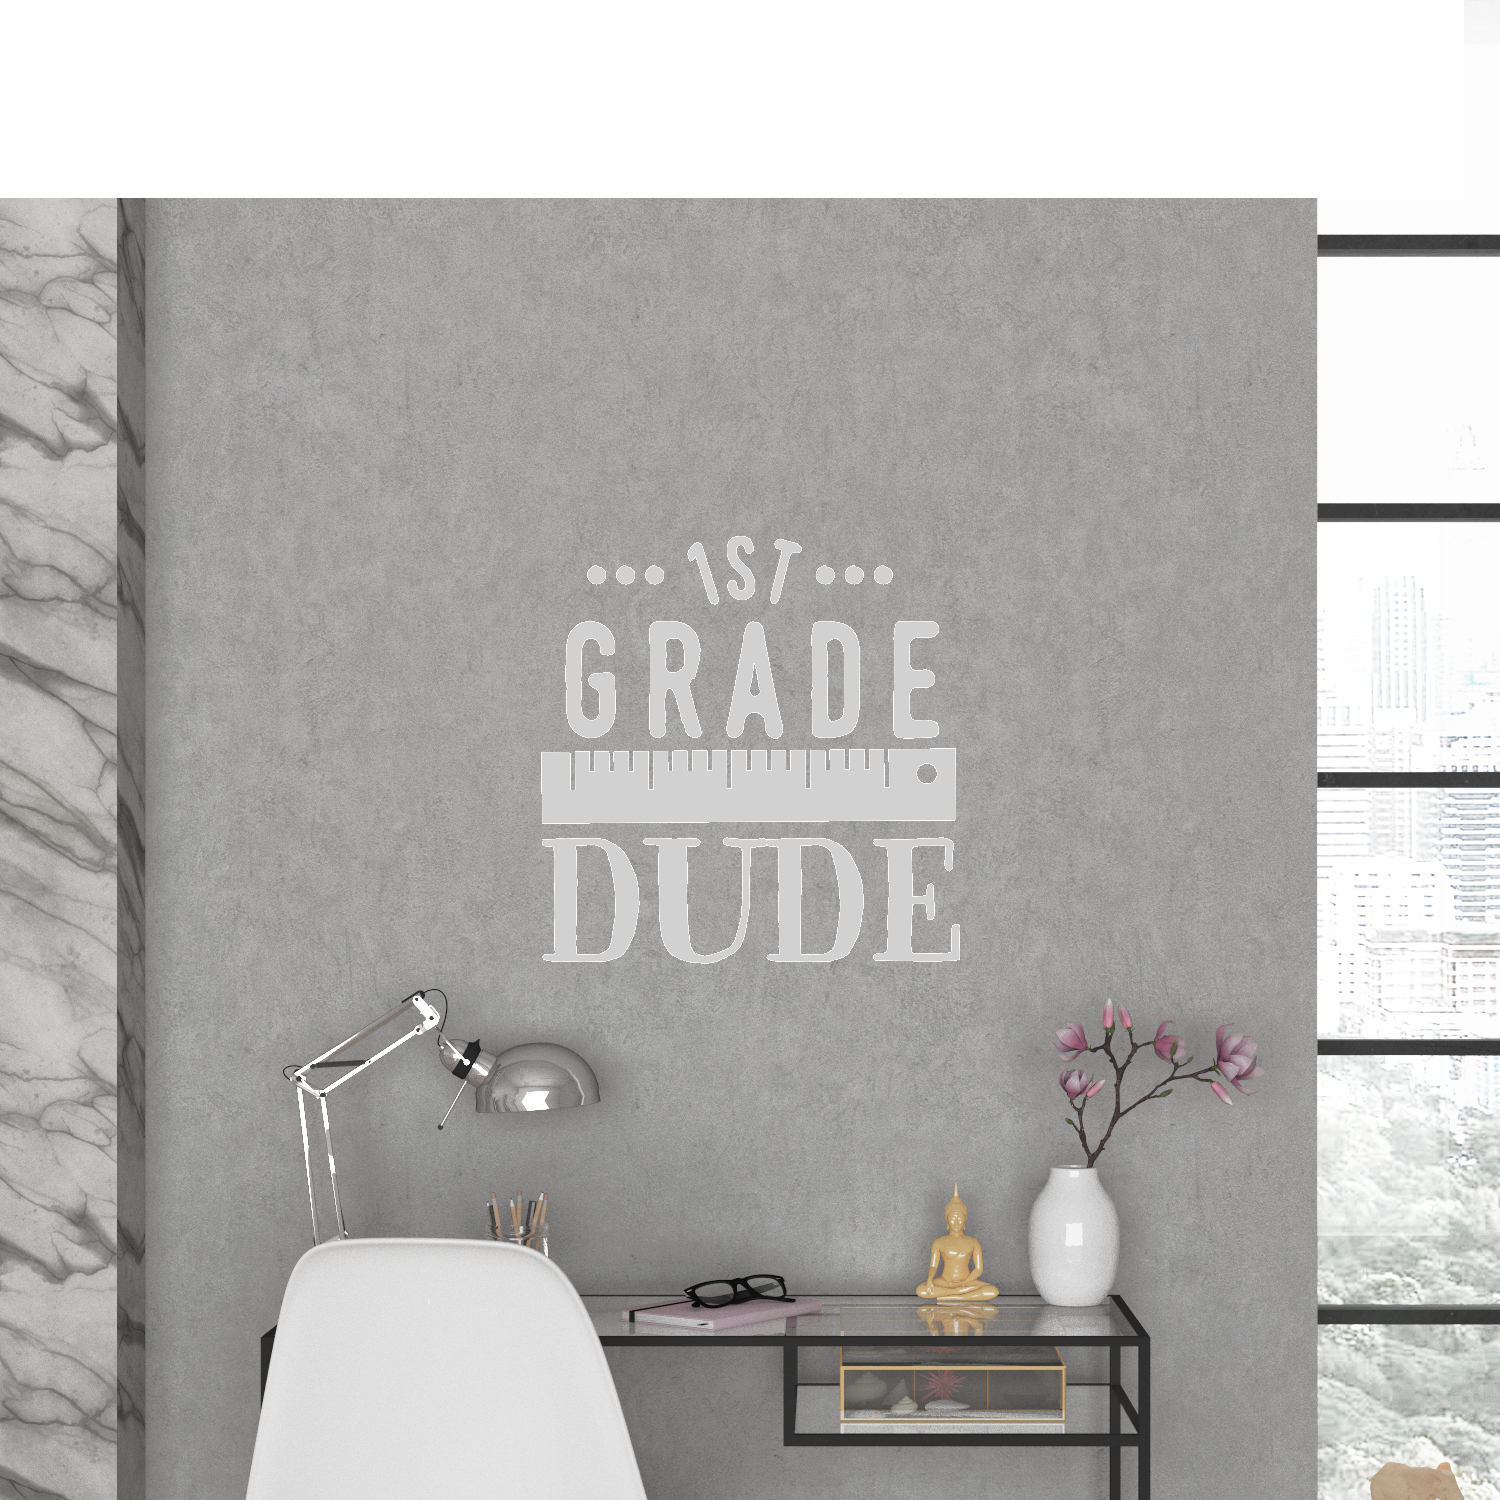
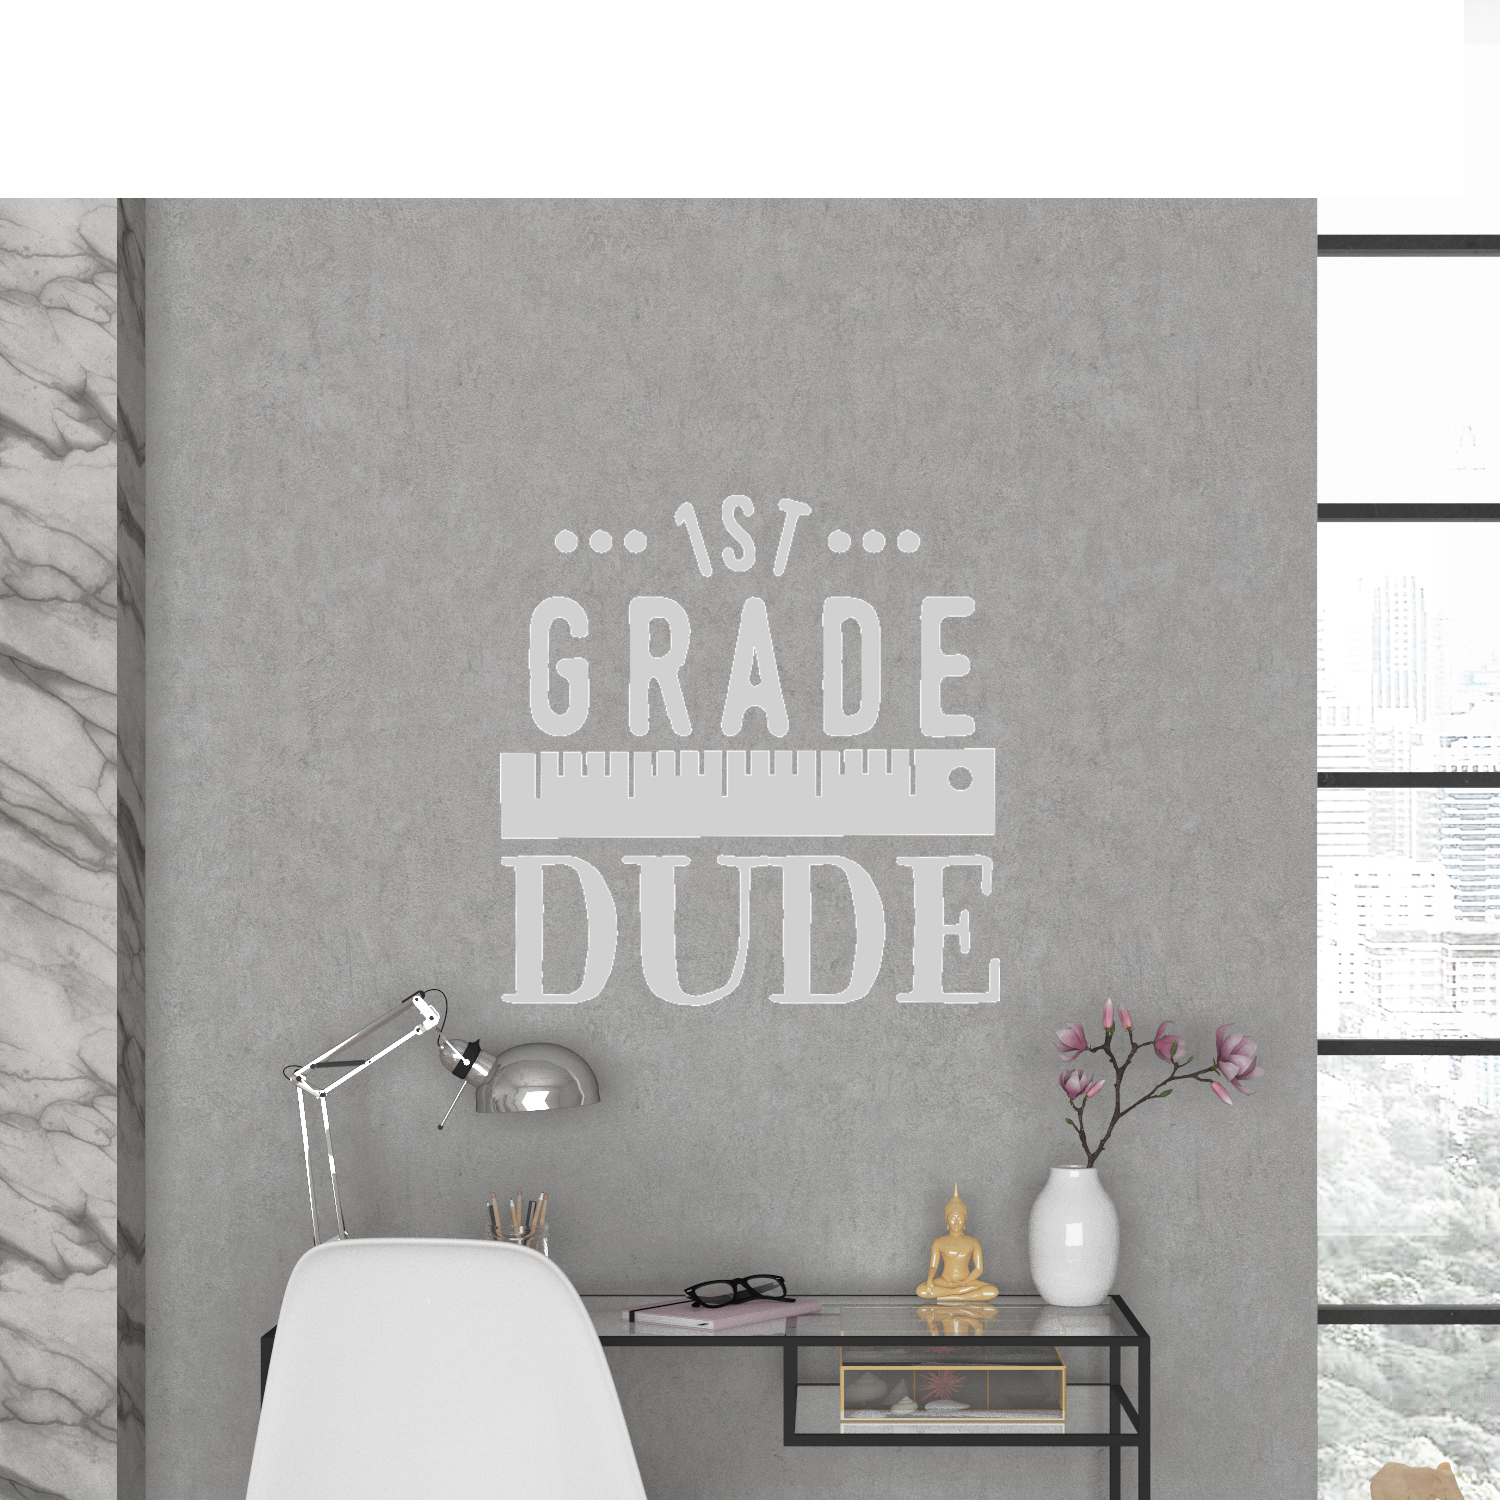
resize mark according to desk

Changed region(s): [[0.3067, 0.3373, 0.6747, 0.6747]]

diff --git a/util/img_util.php b/util/img_util.php
@@ -65,14 +65,29 @@ function merge_mark_desk($store) {
       if (!$file_info->isDot()) {
         $desk = $file_info->getFilename();
         $desk = get_desk_file_path($desk);
+
+        $cmd = "identify -ping -format '%w' $desk";
+        $desk_w = shell_exec($cmd);
+        debug($cmd);
         
         $mark = get_dst_file_path(get_png_name($img_item->dst));
 
+        $cmd = "identify -ping -format '%w' $mark";
+        $mark_w = shell_exec($cmd);
+        debug($cmd);
+
+        $ratio = $desk_w / 3 / $mark_w * 100;
+        $cmd = "convert $mark -resize $ratio% tmp.png";
+        exec($cmd);
+        debug($cmd);
+
         $dst = get_mockup_file_path(get_png_name($img_item->dst), $file_info->getFilename());
-        $cmd = "magick " . $desk . " " . $mark . " -gravity center -compose over -composite " . $dst;
+        $cmd = "magick $desk tmp.png -gravity center -compose over -composite " . $dst;
 
         exec($cmd);
         debug($cmd);
+
+        unlink("tmp.png");
 
         $i++;
       }
